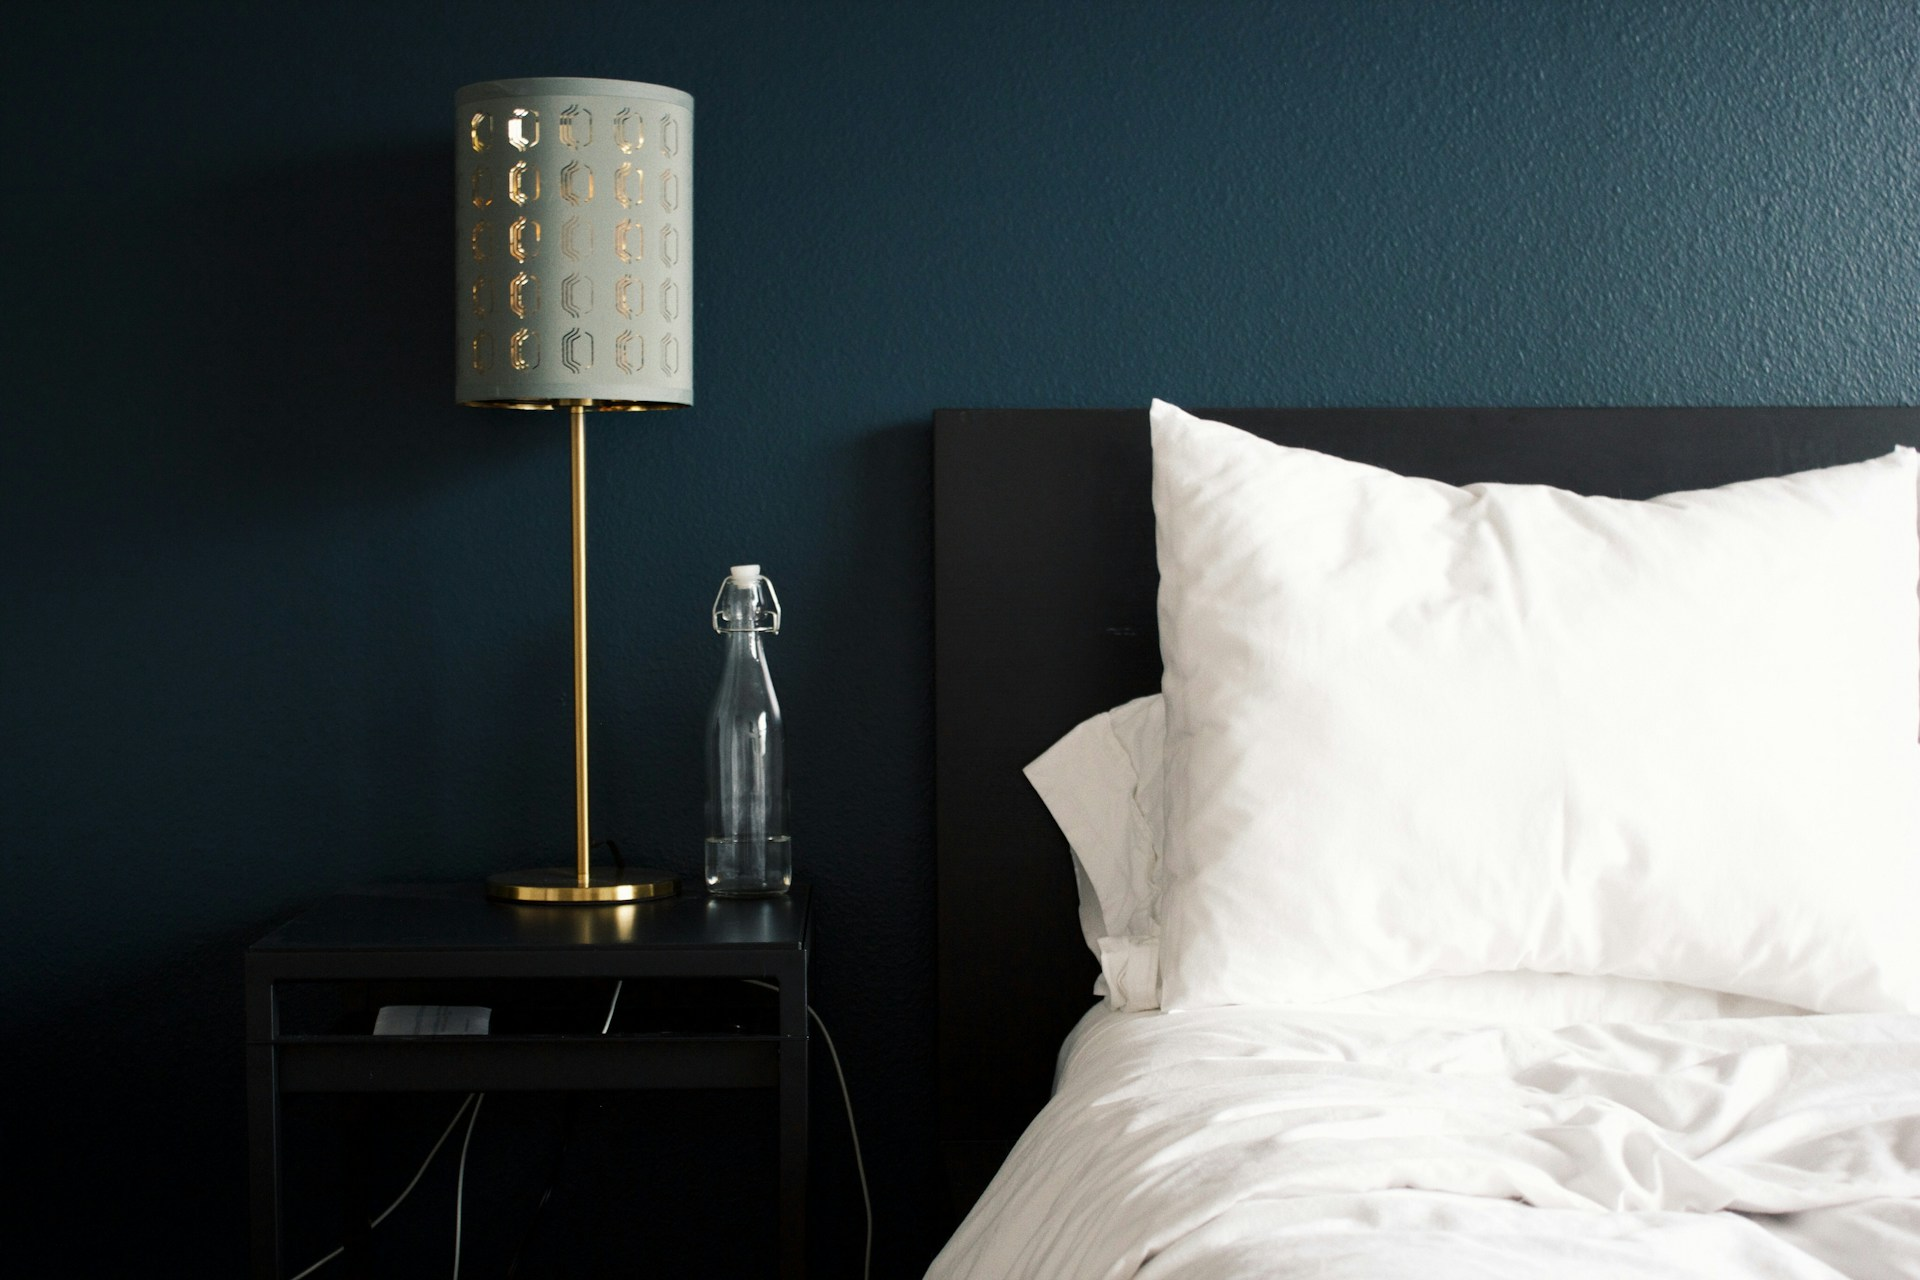
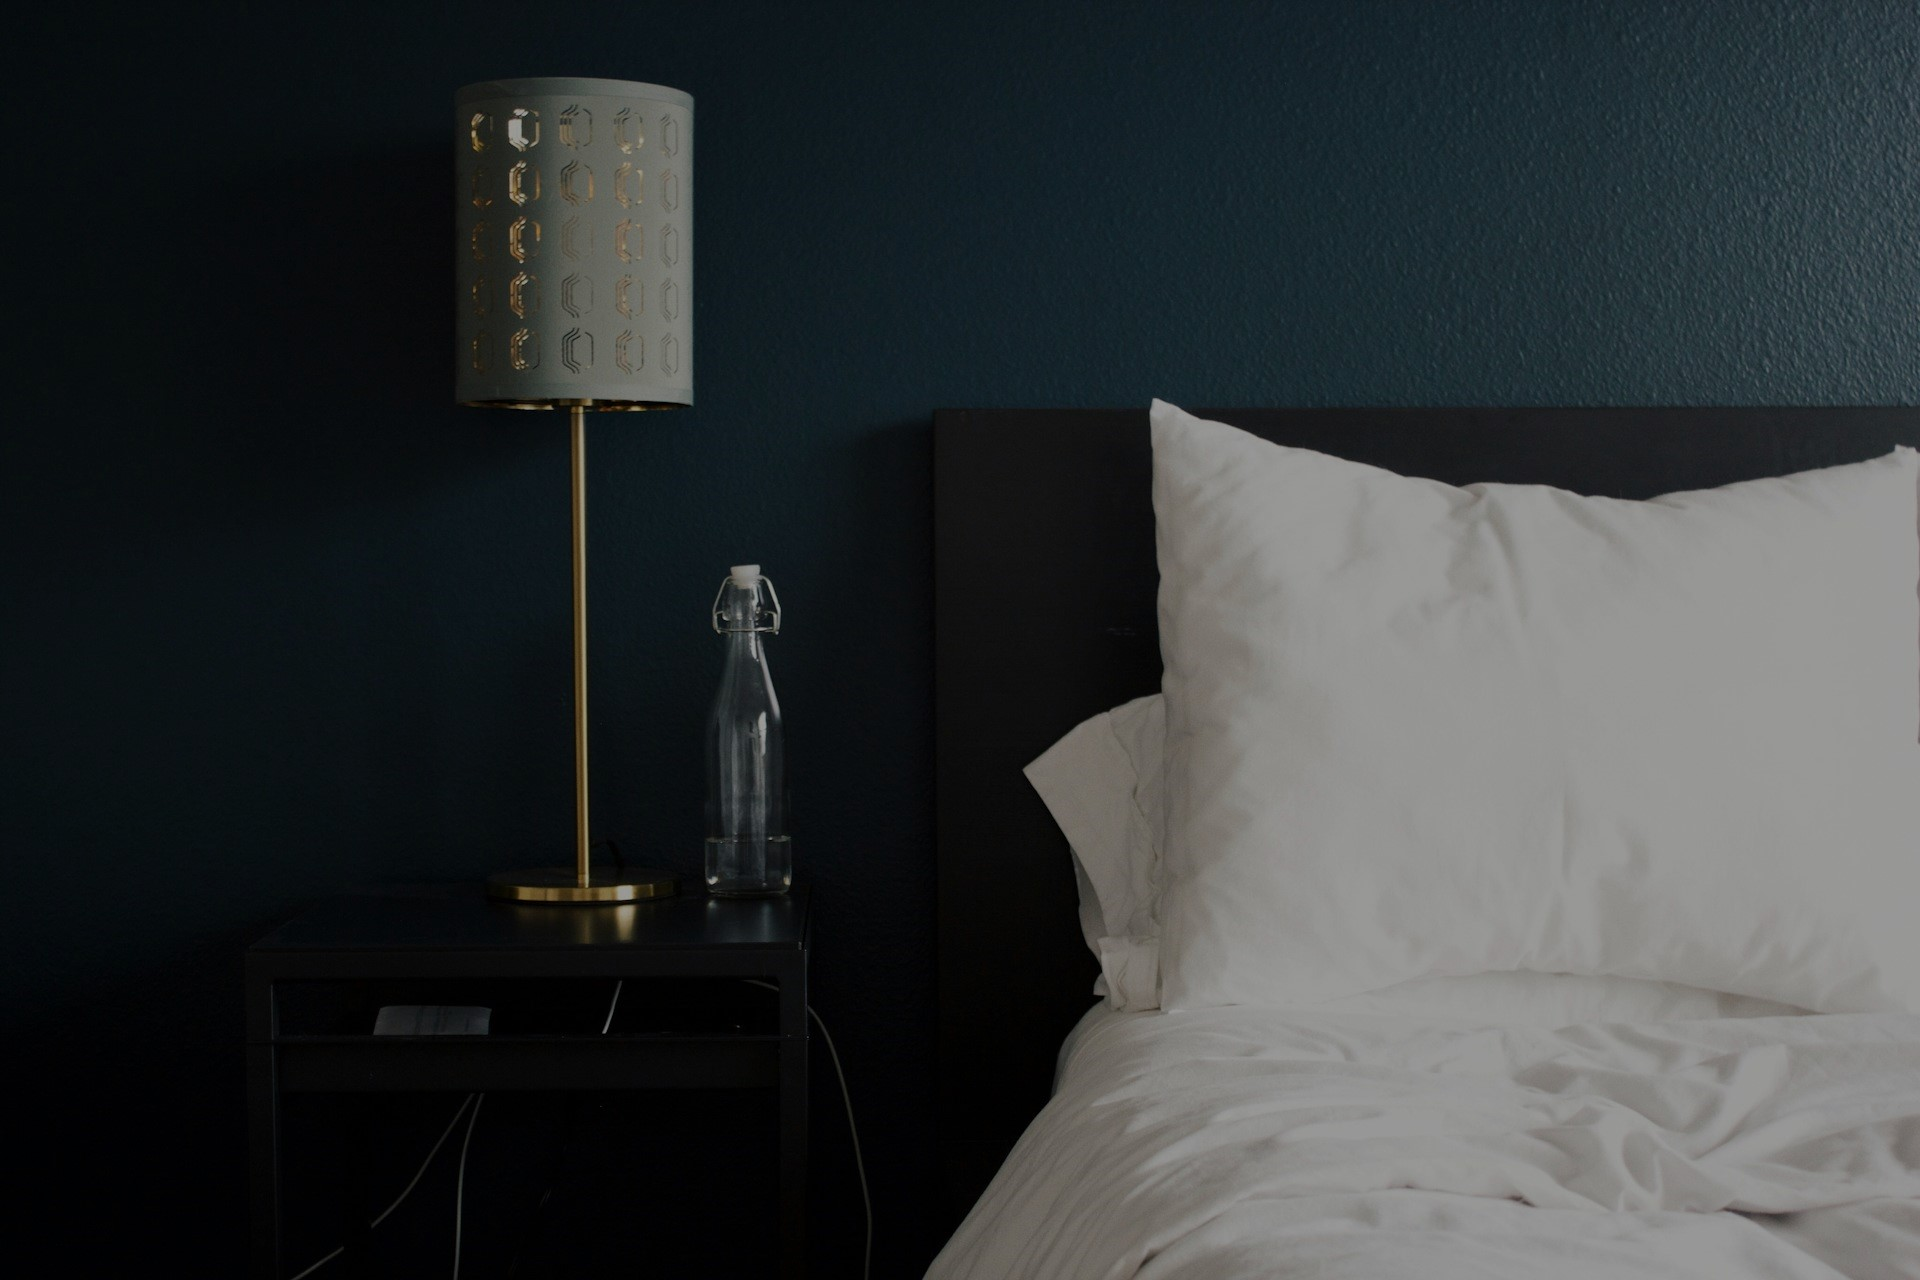
adding contact us section component commit

diff --git a/src/Components/Home/ContactUsSection/ContactUsSection.jsx b/src/Components/Home/ContactUsSection/ContactUsSection.jsx
@@ -1,10 +1,104 @@
-import RoomOne from "../../../assets/RoomOne.jpg";
+import { useForm } from "react-hook-form";
+import { useTranslation } from "react-i18next";
 
 const ContactUsSection = () => {
+  const { t } = useTranslation();
+
+  const {
+    register,
+    trigger,
+    formState: { errors },
+  } = useForm();
+
+  const onSubmit = async (e) => {
+    const isValid = await trigger();
+    if (!isValid) {
+      e.preventDefault();
+    }
+  };
+
+  const inputStyles = `w-full mt-5 rounded-md focus:outline-none bg-grey px-5 py-3`;
+
   return (
-    <div>
+    <div className="mt-36 contactUsBack">
       <div>
-        <div>test</div>
+        <div>
+          <div className="container">
+            <div className="relative w-1/2 p-4 bg-white top-36 text-backgroundColor">
+              <div>
+                <div>
+                  <h1>Connect with Us</h1>
+                  <p>
+                    Got a question, comment, or just want to say hello? Drop us
+                    a line! We re here to assist you with anything you need,
+                    from booking inquiries to special requests. Your
+                    satisfaction is our priority.
+                  </p>
+                </div>
+                <form
+                  target="_blank"
+                  className="mb-8 text-center md:mb-0"
+                  onSubmit={onSubmit}
+                  action="#"
+                  method="POST"
+                >
+                  <input
+                    type="text"
+                    placeholder="Name"
+                    className={inputStyles}
+                    {...register("name", {
+                      required: true,
+                      minLength: 3,
+                      maxLength: 100,
+                    })}
+                  />
+                  {errors.name && (
+                    <p className="mt-1 text-mainColor">
+                      {errors.name.type === "required" && `${t("required")}`}
+                      {errors.name.type === "maxLength" &&
+                        `${t("maxLengthOne")}`}
+                      {errors.name &&
+                        errors.name.type === "minLength" &&
+                        `${t("minLengthOne")}`}
+                    </p>
+                  )}
+                  <input
+                    type="text"
+                    placeholder="Email"
+                    className={inputStyles}
+                    {...register("email", {
+                      required: true,
+                      pattern: /^[A-Z0-9._%+-]+@[A-Z0-9.-]+\.[A-Z]{2,}$/i,
+                    })}
+                  />
+                  {errors.email && (
+                    <p className="mt-1 text-mainColor">
+                      {errors.email.type === "required" && `${t("required")}`}
+                      {errors.email.type === "pattern" && `${t("email")}`}
+                    </p>
+                  )}
+                  <textarea
+                    placeholder="Message"
+                    className={inputStyles}
+                    rows={4}
+                    cols={50}
+                    {...register("message", {
+                      required: true,
+                      minLength: 5,
+                      maxLength: 2000,
+                    })}
+                  />
+                  {errors.message && (
+                    <p className="mt-1 text-mainColor">
+                      {errors.message.type === "required" && `${t("required")}`}
+                    </p>
+                  )}
+                  <button className="buttonContactUs">Submit</button>
+                </form>{" "}
+              </div>
+            </div>
+          </div>
+        </div>
       </div>
     </div>
   );

diff --git a/src/index.css b/src/index.css
@@ -83,6 +83,45 @@
   transform: translateY(0);
 }
 
+.buttonContactUs {
+  appearance: none;
+  background-color: transparent;
+  border: 2px solid var(--main);
+  color: var(--main);
+  cursor: pointer;
+  display: inline-block;
+  font-size: 16px;
+  font-weight: 600;
+  line-height: normal;
+  margin: 0;
+  outline: none;
+  padding: 13px 20px 13px;
+  text-align: center;
+  text-decoration: none;
+  transition: all 300ms cubic-bezier(0.23, 1, 0.32, 1);
+  user-select: none;
+  -webkit-user-select: none;
+  touch-action: manipulation;
+  will-change: transform;
+}
+
+.buttonContactUs:disabled {
+  pointer-events: none;
+}
+
+.buttonContactUs:hover {
+  color: #fff;
+  background-color: var(--second);
+  border: 2px solid transparent;
+  box-shadow: rgba(131, 128, 128, 0.25) 0 8px 15px;
+  transform: translateY(-2px);
+}
+
+.buttonContactUs:active {
+  box-shadow: none;
+  transform: translateY(0);
+}
+
 .link {
   color: var(--textColor);
   position: relative;
@@ -110,6 +149,14 @@
 
 .linkColor {
   color: #1a1a1a !important;
+}
+
+.contactUsBack {
+  background-image: url(../src/assets/RoomOne.jpg);
+  background-position: center center;
+  background-size: cover;
+  background-attachment: fixed;
+  height: 50rem;
 }
 
 @layer components {

diff --git a/src/Components/Home/Home.jsx b/src/Components/Home/Home.jsx
@@ -12,8 +12,8 @@ const Home = () => {
         <AboutUs />
         <Mission />
         <Apartments />
-        <ContactUsSection />
       </div>
+      <ContactUsSection />
     </>
   );
 };
